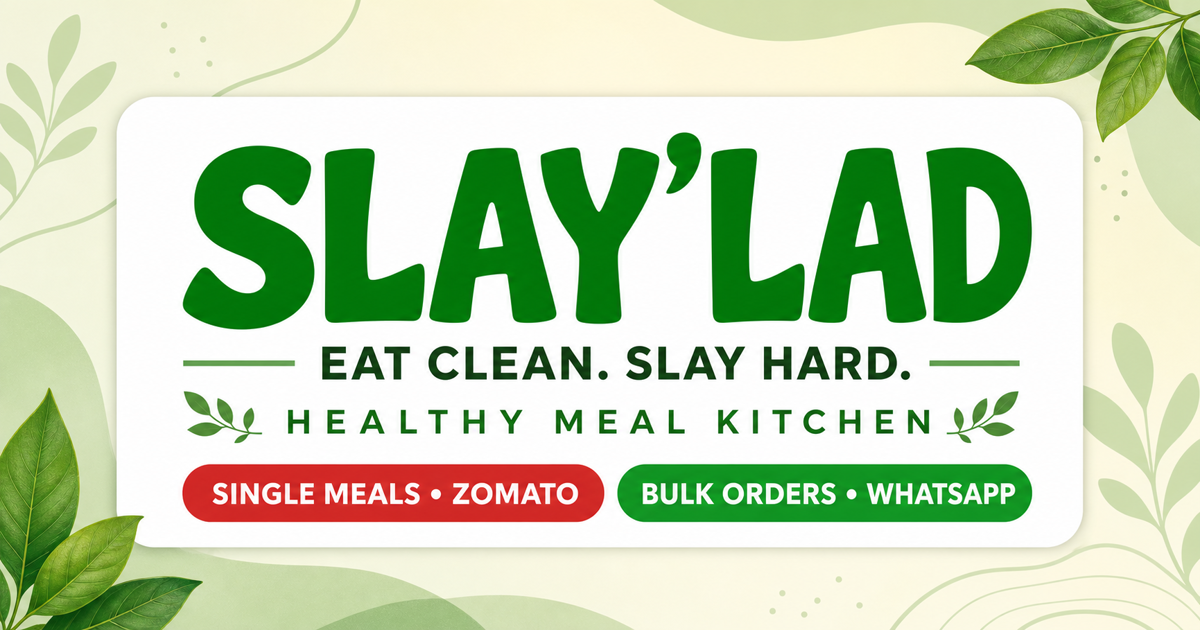
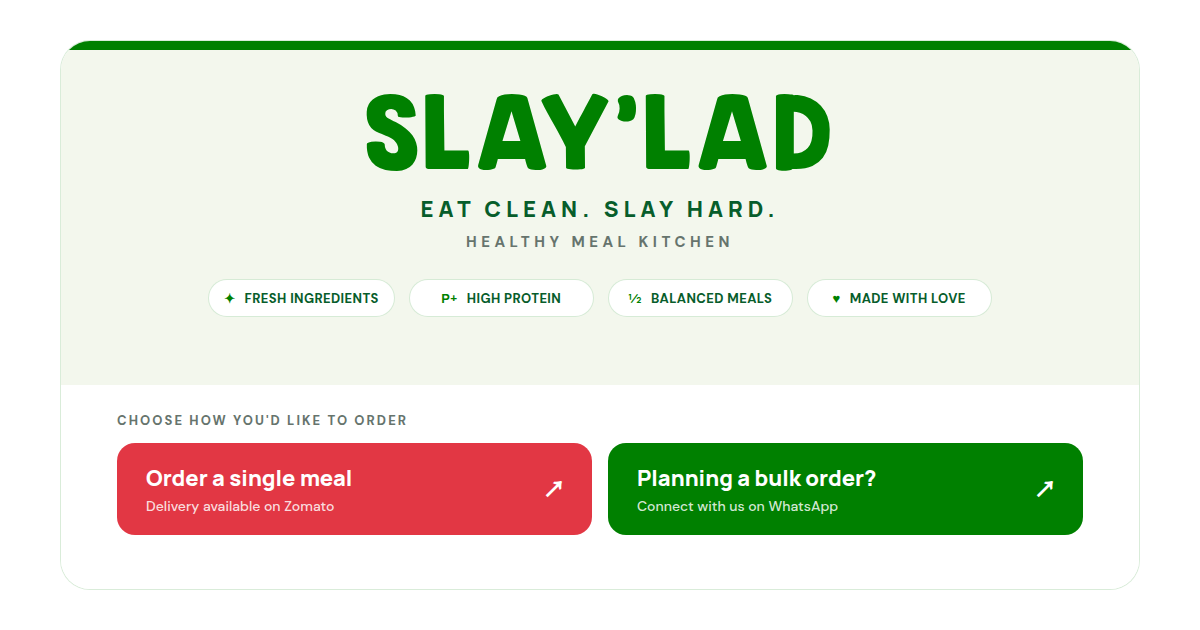
Match social preview to card branding

diff --git a/social-preview-template.html b/social-preview-template.html
@@ -1,0 +1,215 @@
+<!doctype html>
+<html lang="en">
+  <head>
+    <meta charset="UTF-8" />
+    <meta name="robots" content="noindex" />
+    <title>SLAY'LAD social preview source</title>
+    <link rel="preconnect" href="https://fonts.googleapis.com" />
+    <link rel="preconnect" href="https://fonts.gstatic.com" crossorigin />
+    <link rel="preconnect" href="https://fonts.cdnfonts.com" />
+    <link
+      href="https://fonts.googleapis.com/css2?family=DM+Sans:wght@500;600;700&family=Manrope:wght@600;700;800&display=swap"
+      rel="stylesheet"
+    />
+    <link href="https://fonts.cdnfonts.com/css/kg-inimitable-original" rel="stylesheet" />
+    <style>
+      * {
+        box-sizing: border-box;
+      }
+
+      html,
+      body {
+        width: 1200px;
+        height: 630px;
+        margin: 0;
+        overflow: hidden;
+      }
+
+      body {
+        display: grid;
+        background: #ffffff;
+        color: #193126;
+        font-family: "DM Sans", sans-serif;
+        place-items: center;
+      }
+
+      .card {
+        position: relative;
+        width: 1080px;
+        height: 550px;
+        overflow: hidden;
+        border: 1px solid rgba(0, 128, 0, 0.15);
+        border-radius: 30px;
+        background: #ffffff;
+      }
+
+      .topline {
+        height: 9px;
+        background: #008000;
+      }
+
+      .hero {
+        height: 335px;
+        padding: 35px 56px 28px;
+        background: #f3f7ed;
+        text-align: center;
+      }
+
+      h1 {
+        margin: 0;
+        color: #008000;
+        font-family: "KG Inimitable Original", sans-serif;
+        font-size: 96px;
+        font-weight: 400;
+        letter-spacing: 0.025em;
+        line-height: 1;
+      }
+
+      .tagline {
+        margin: 13px 0 0;
+        color: #075d2b;
+        font-family: "Manrope", sans-serif;
+        font-size: 22px;
+        font-weight: 800;
+        letter-spacing: 0.23em;
+        text-transform: uppercase;
+      }
+
+      .descriptor {
+        margin: 8px 0 0;
+        color: #66746d;
+        font-size: 15px;
+        font-weight: 700;
+        letter-spacing: 0.3em;
+        text-transform: uppercase;
+      }
+
+      .values {
+        display: flex;
+        gap: 14px;
+        justify-content: center;
+        margin-top: 27px;
+      }
+
+      .value {
+        display: flex;
+        min-width: 185px;
+        gap: 9px;
+        align-items: center;
+        justify-content: center;
+        padding: 9px 15px;
+        border: 1px solid rgba(0, 128, 0, 0.16);
+        border-radius: 999px;
+        background: #ffffff;
+        color: #075d2b;
+        font-size: 13px;
+        font-weight: 700;
+        letter-spacing: 0.03em;
+        text-transform: uppercase;
+      }
+
+      .value-mark {
+        color: #008000;
+        font-family: "Manrope", sans-serif;
+        font-weight: 800;
+      }
+
+      .orders {
+        height: 206px;
+        padding: 27px 56px 28px;
+        background: #ffffff;
+      }
+
+      .order-label {
+        margin: 0 0 14px;
+        color: #66746d;
+        font-size: 13px;
+        font-weight: 700;
+        letter-spacing: 0.16em;
+        text-transform: uppercase;
+      }
+
+      .order-row {
+        display: grid;
+        grid-template-columns: 1fr 1fr;
+        gap: 16px;
+      }
+
+      .order {
+        display: flex;
+        height: 92px;
+        align-items: center;
+        justify-content: space-between;
+        padding: 0 29px;
+        border-radius: 18px;
+        color: #ffffff;
+      }
+
+      .zomato {
+        background: #e23744;
+      }
+
+      .whatsapp {
+        background: #008000;
+      }
+
+      .order strong,
+      .order span {
+        display: block;
+      }
+
+      .order strong {
+        font-family: "Manrope", sans-serif;
+        font-size: 22px;
+        font-weight: 800;
+      }
+
+      .order span {
+        margin-top: 4px;
+        color: rgba(255, 255, 255, 0.84);
+        font-size: 14px;
+      }
+
+      .arrow {
+        font-family: "Manrope", sans-serif;
+        font-size: 29px;
+        font-weight: 600;
+      }
+    </style>
+  </head>
+  <body>
+    <main class="card">
+      <div class="topline"></div>
+      <section class="hero">
+        <h1>SLAY'LAD</h1>
+        <p class="tagline">Eat clean. Slay hard.</p>
+        <p class="descriptor">Healthy meal kitchen</p>
+        <div class="values">
+          <div class="value"><span class="value-mark">✦</span> Fresh ingredients</div>
+          <div class="value"><span class="value-mark">P+</span> High protein</div>
+          <div class="value"><span class="value-mark">½</span> Balanced meals</div>
+          <div class="value"><span class="value-mark">♥</span> Made with love</div>
+        </div>
+      </section>
+      <section class="orders">
+        <p class="order-label">Choose how you'd like to order</p>
+        <div class="order-row">
+          <div class="order zomato">
+            <div>
+              <strong>Order a single meal</strong>
+              <span>Delivery available on Zomato</span>
+            </div>
+            <div class="arrow">↗</div>
+          </div>
+          <div class="order whatsapp">
+            <div>
+              <strong>Planning a bulk order?</strong>
+              <span>Connect with us on WhatsApp</span>
+            </div>
+            <div class="arrow">↗</div>
+          </div>
+        </div>
+      </section>
+    </main>
+  </body>
+</html>

diff --git a/index.html b/index.html
@@ -18,8 +18,8 @@
     <meta property="og:url" content="https://card.slaylad.com/" />
     <meta property="og:site_name" content="SLAY'LAD" />
     <meta property="og:locale" content="en_IN" />
-    <meta property="og:image" content="https://card.slaylad.com/social-preview.png" />
-    <meta property="og:image:secure_url" content="https://card.slaylad.com/social-preview.png" />
+    <meta property="og:image" content="https://card.slaylad.com/social-preview.png?v=2" />
+    <meta property="og:image:secure_url" content="https://card.slaylad.com/social-preview.png?v=2" />
     <meta property="og:image:type" content="image/png" />
     <meta property="og:image:width" content="1200" />
     <meta property="og:image:height" content="630" />
@@ -33,7 +33,7 @@
       name="twitter:description"
       content="Healthy meals in Gurugram. Single meals on Zomato and bulk orders on WhatsApp."
     />
-    <meta name="twitter:image" content="https://card.slaylad.com/social-preview.png" />
+    <meta name="twitter:image" content="https://card.slaylad.com/social-preview.png?v=2" />
     <meta
       name="twitter:image:alt"
       content="SLAY'LAD healthy meal kitchen — single meals on Zomato and bulk orders on WhatsApp"